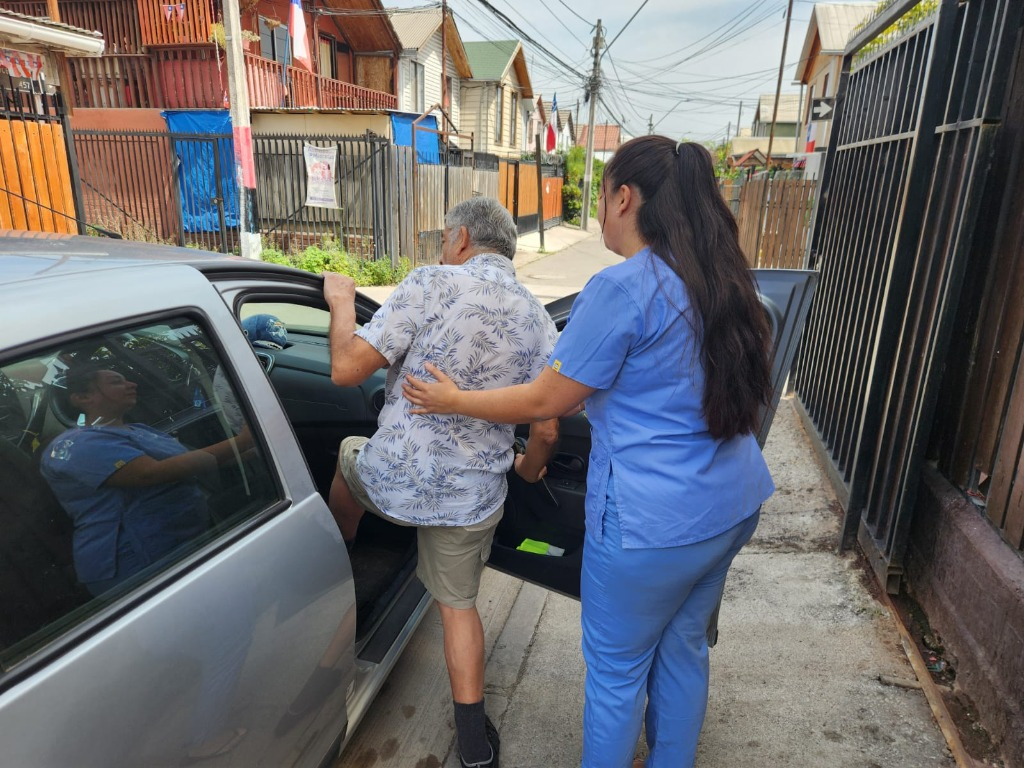
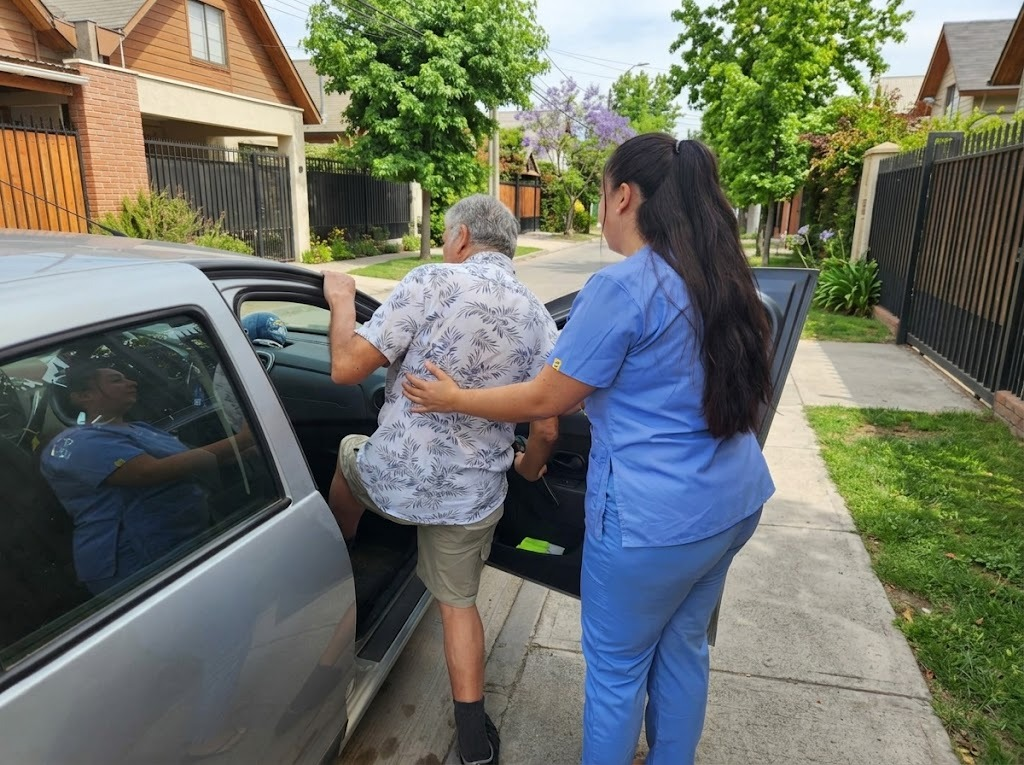
fix: reemplazar foto principal en hero por nueva imagen

diff --git a/index.html b/index.html
@@ -167,7 +167,7 @@ footer .wrap{display:grid;gap:8px}
       </div>
       <small>Respuesta personalizada · Cotización previa sin compromiso</small>
     </div>
-    <img src="hero.jpg" alt="Profesional TENS ayudando a un adulto mayor a subir al vehículo" style="width:100%;max-height:440px;object-fit:cover;border-radius:var(--r);box-shadow:0 8px 24px rgba(0,0,0,.12);display:block">
+    <img src="hero.jpg?v=2" alt="Profesional TENS ayudando a un adulto mayor a subir al vehículo" style="width:100%;max-height:440px;object-fit:cover;border-radius:var(--r);box-shadow:0 8px 24px rgba(0,0,0,.12);display:block">
   </div>
 </div>
 <div class="trust"><div class="wrap"><ul>
